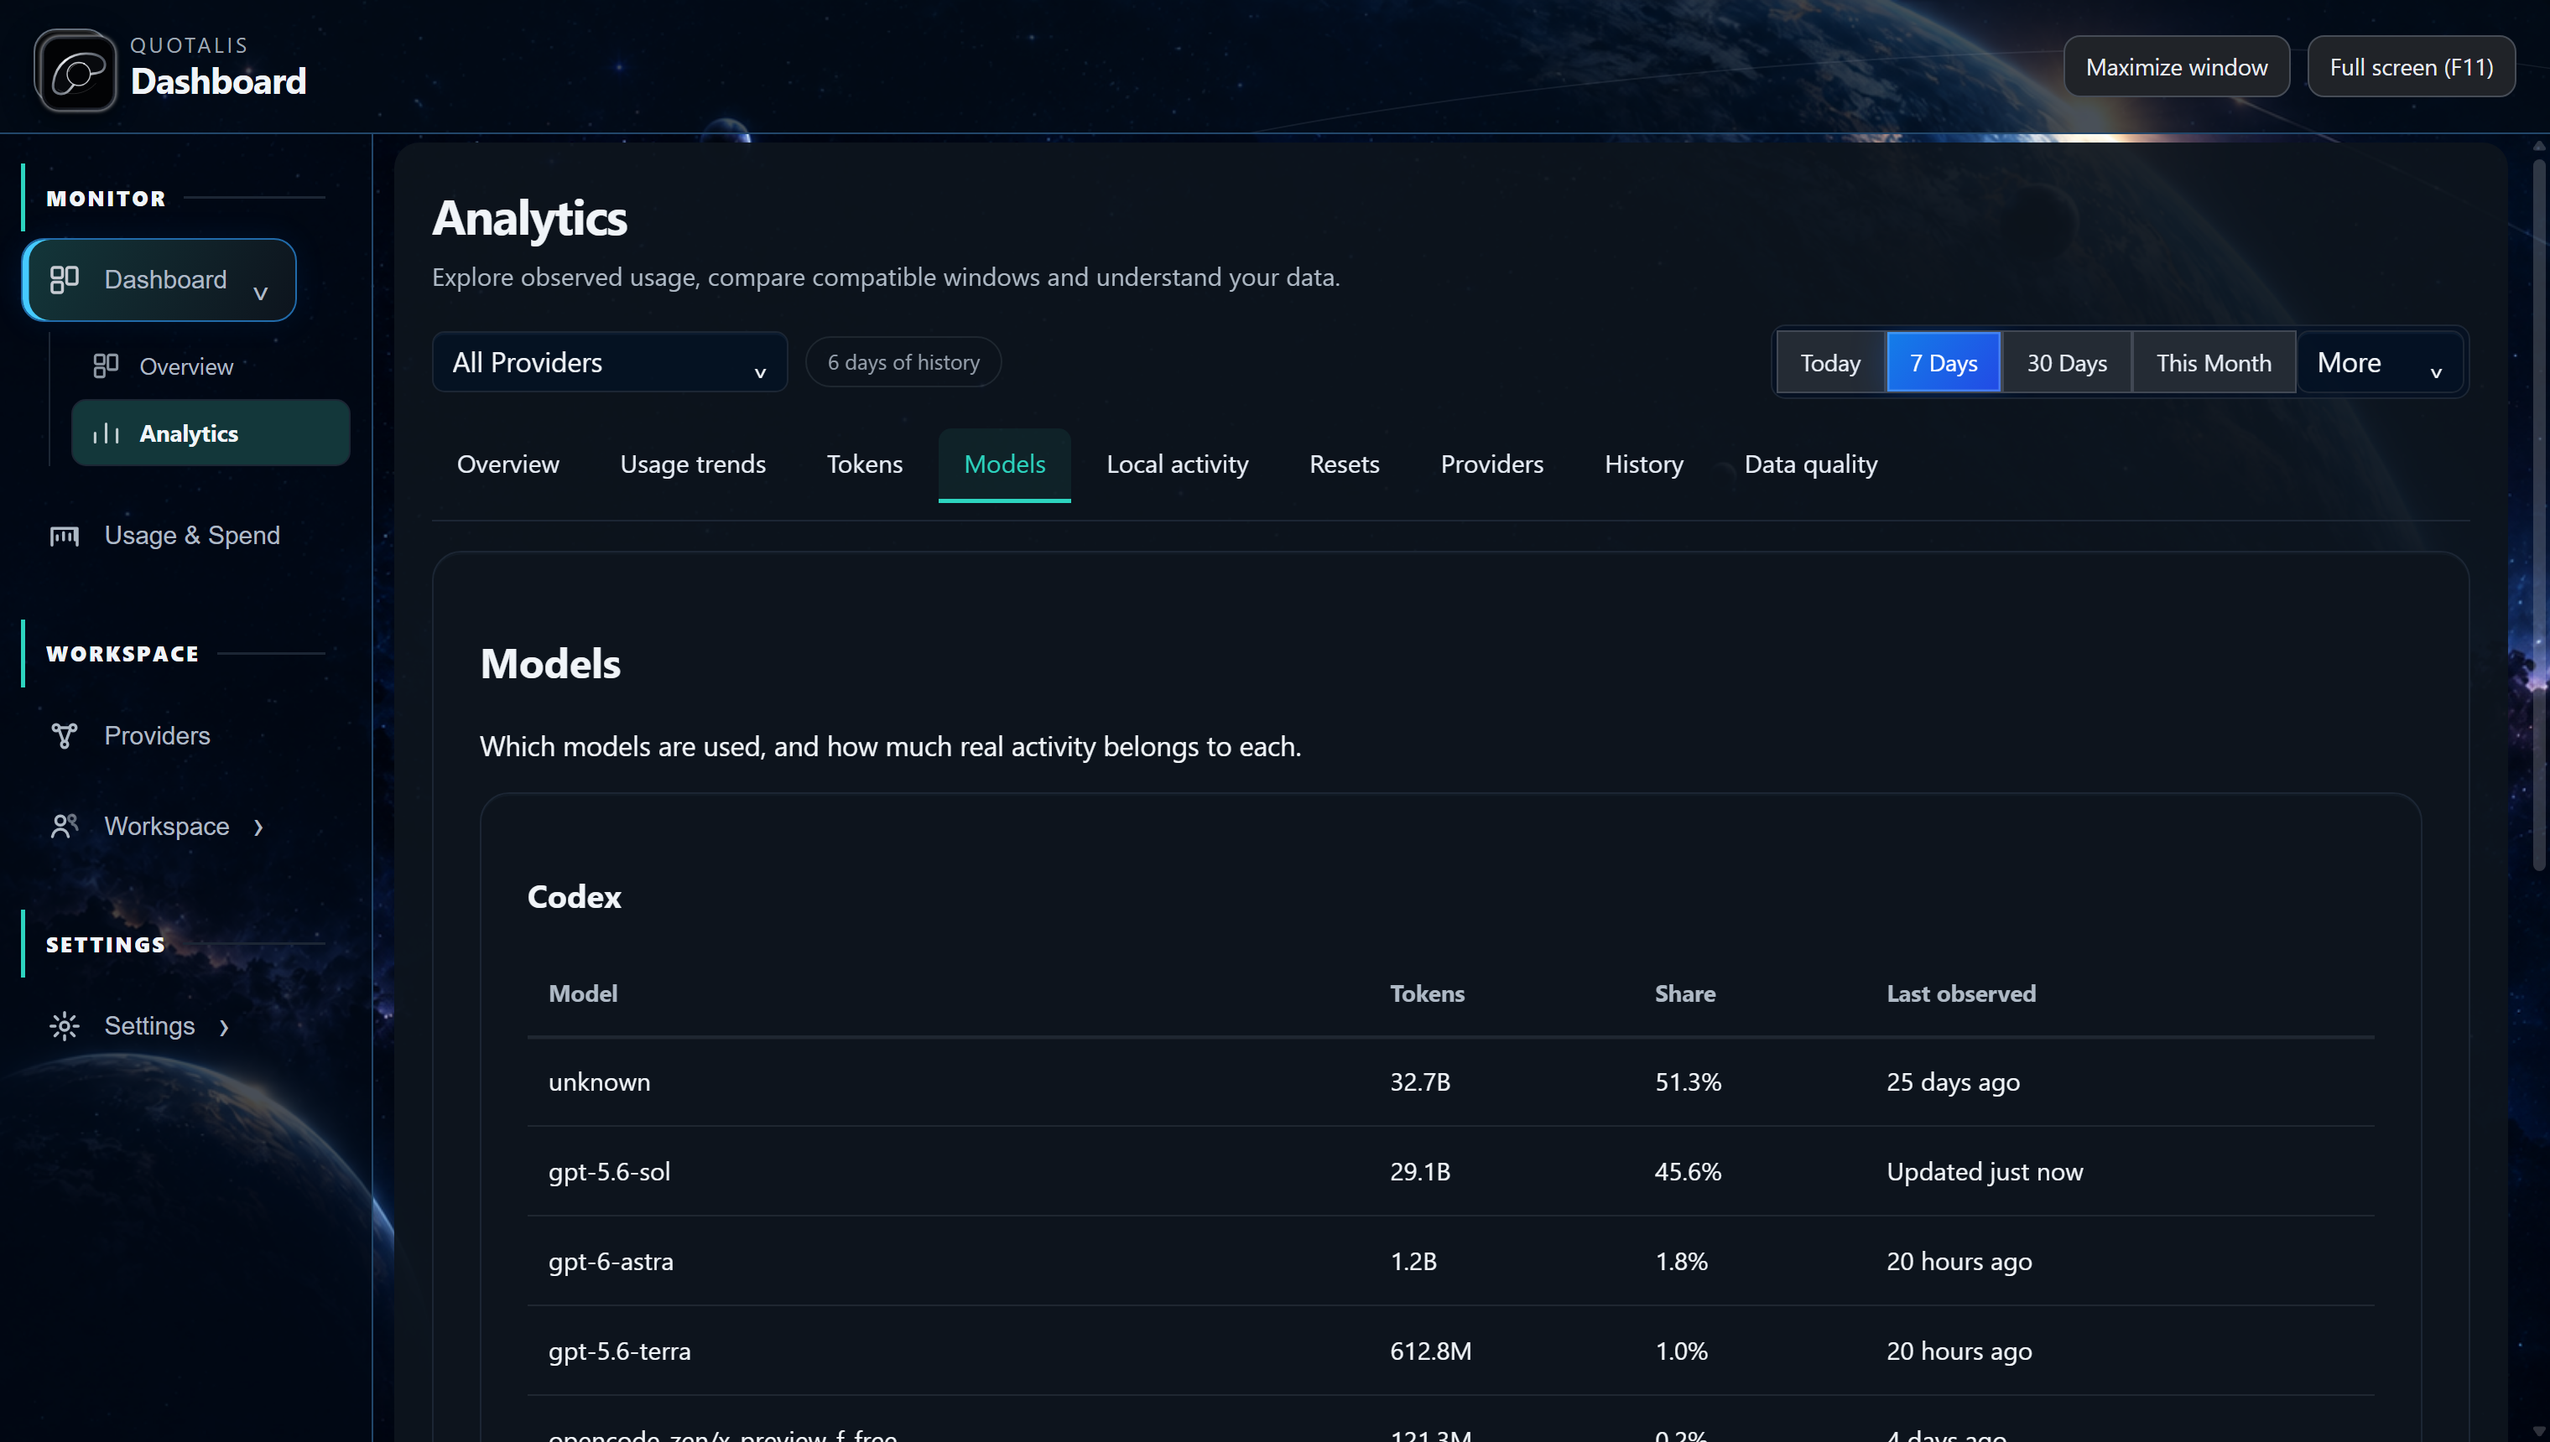
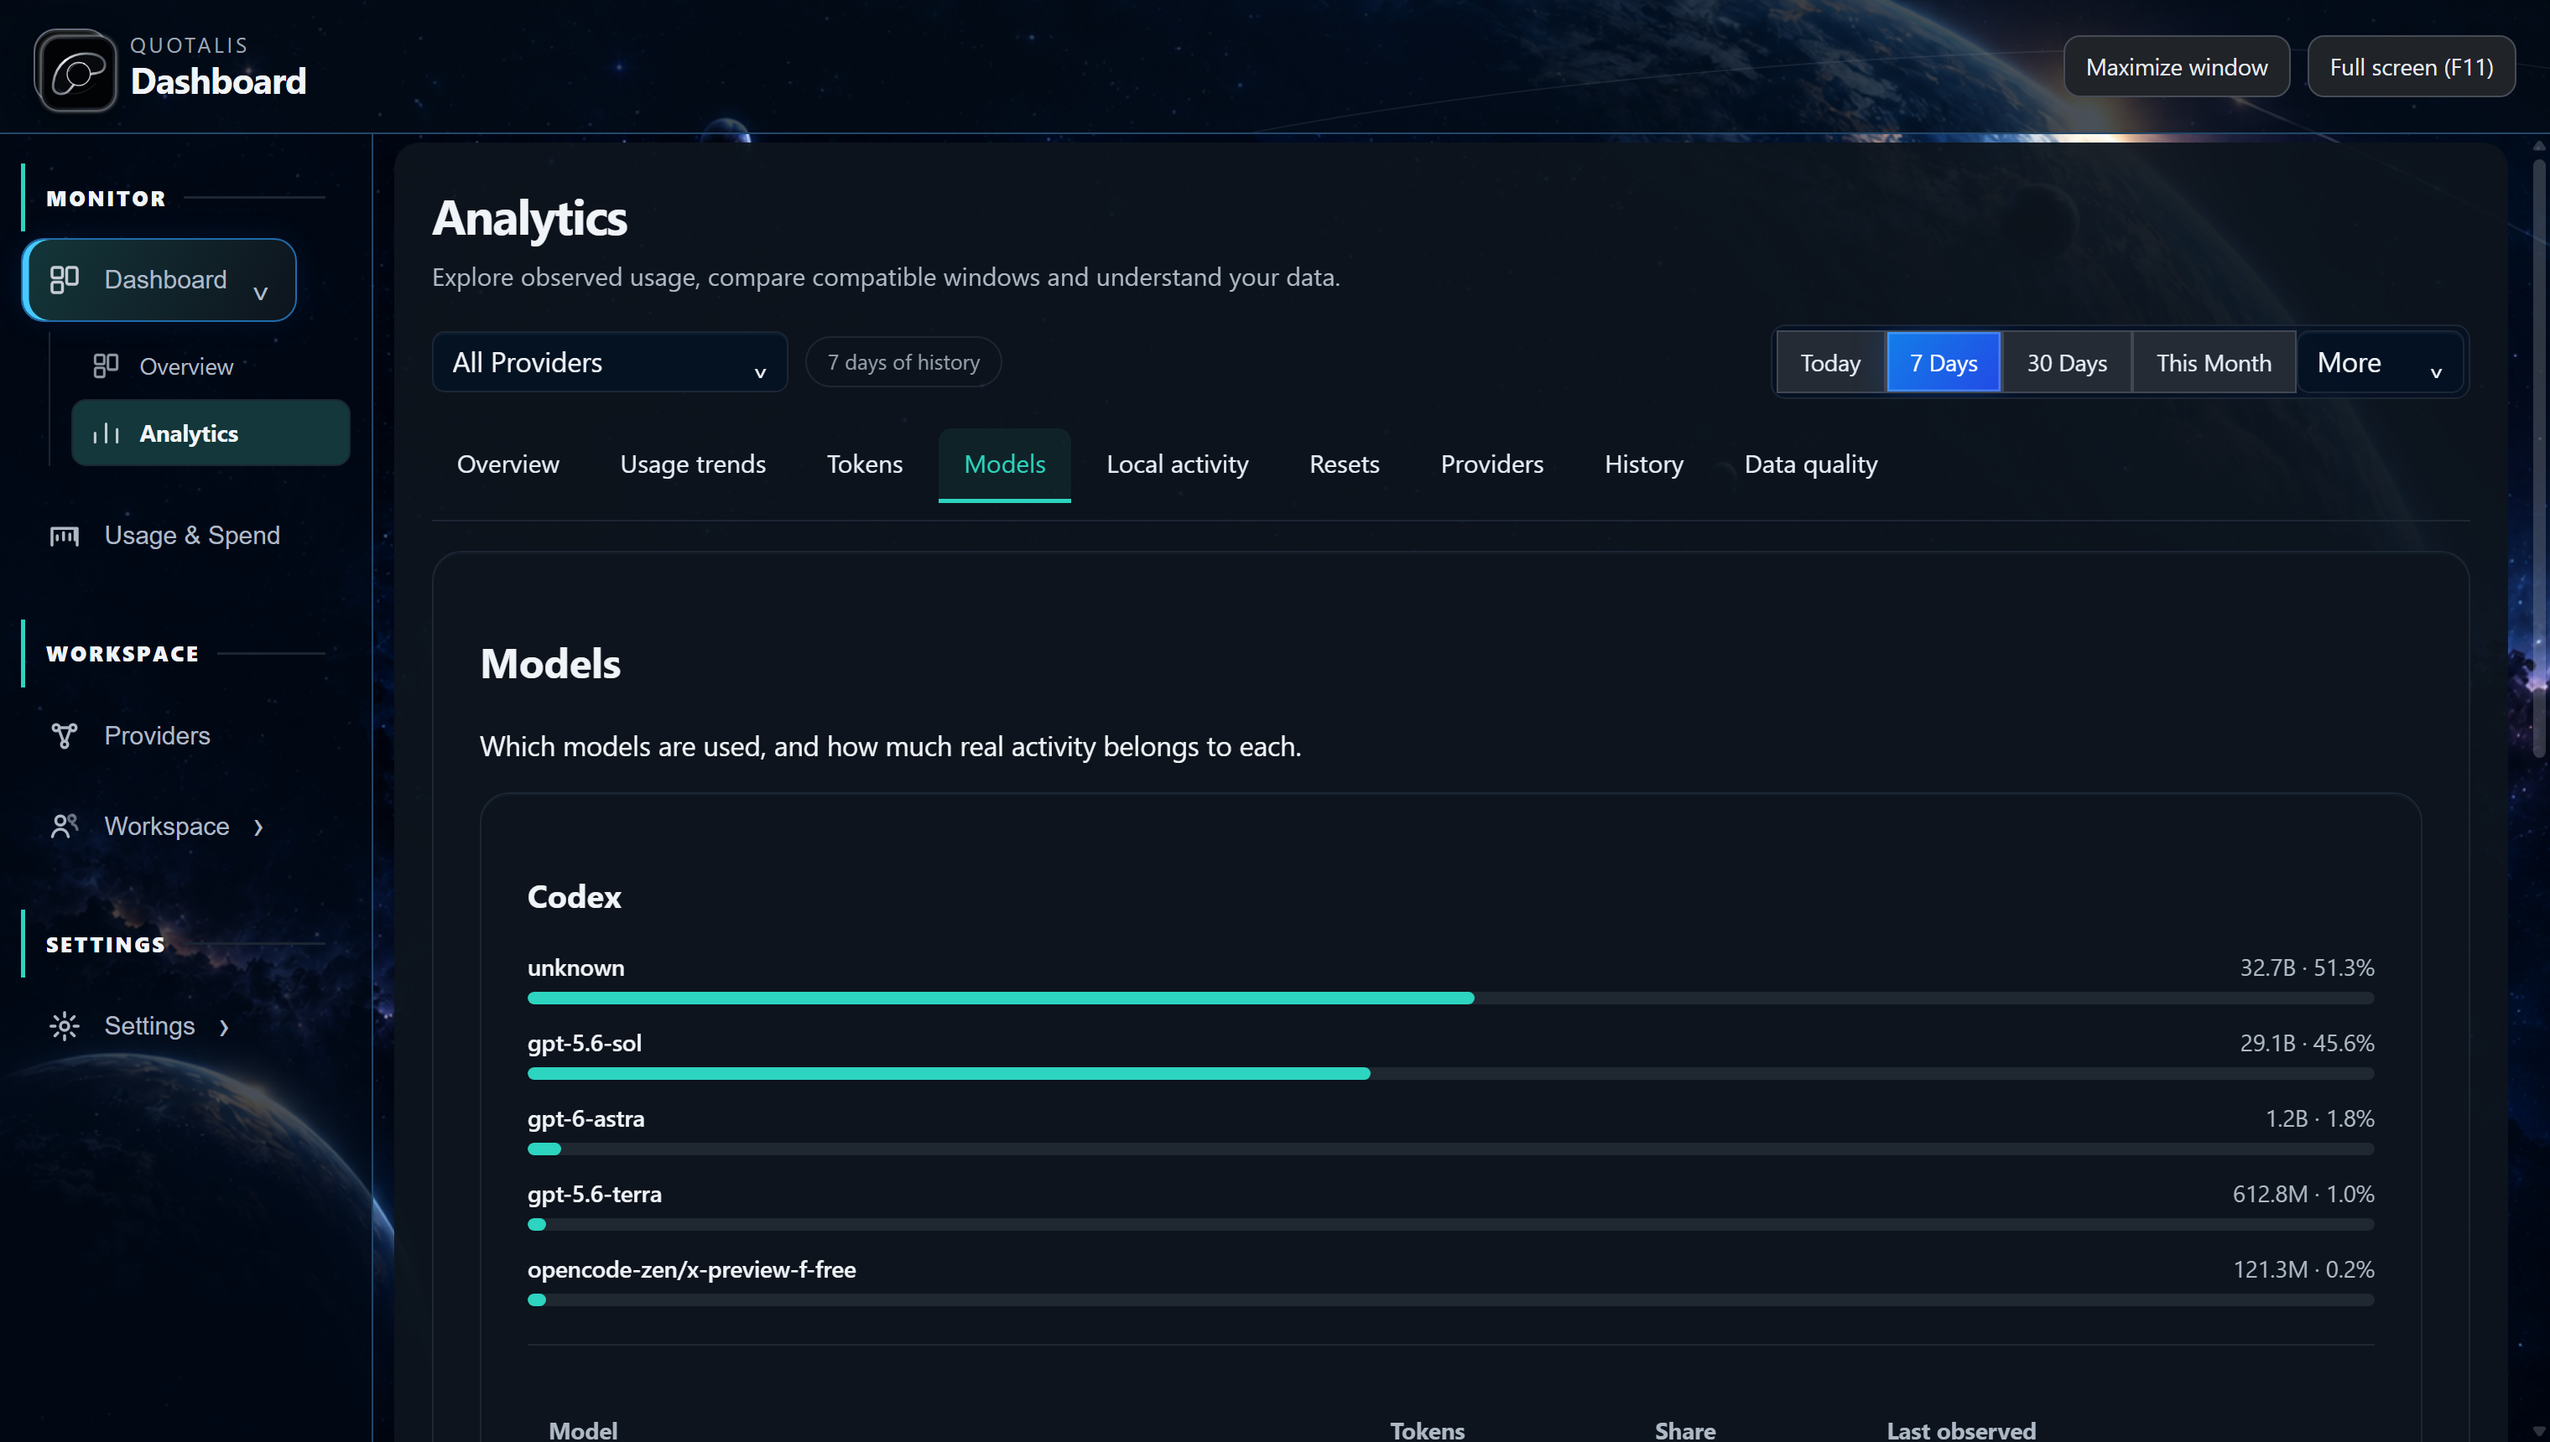
feat: evolve Model Analytics presentation
Codex's model breakdown was a raw table only (owner: "do not leave it
as a raw table only"). Added a ranked instrument-row visual above the
existing table: one horizontal bar per top-5 model, width proportional
to share of the same `codexTotal` denominator the table already uses
(no pie chart -- a pie invites reading the angle instead of the actual
number, which is always shown alongside the bar here as
"<tokens> · <share>%"). The "unknown" model bucket stays visible and,
being the largest real bucket on this machine, sorts to the top
honestly rather than being hidden or demoted.

The detailed table below is functionally unchanged -- same columns,
same full row set including "unknown" -- so this is additive, not a
replacement of the honest record.

Claude's single-top-model ribbon gets the same `analytics-comparison-stat`
+ `--text` cell-grammar fix as Overview/Tokens (same root cause: a
plain unstyled `<div>`), giving its intentional limited state
(PanelTopModelPrefix + one concise capability note, no fabricated
ranked list) the same visual weight as every other Analytics surface.

Verified: pnpm vitest run (181 files / 1086 tests -- ModelAnalytics.test.tsx
updated since "gpt-5"/"gpt-5-mini" now legitimately appear twice, once
in the new ranked list and once in the unchanged table), tsc --noEmit
clean, production build succeeds, locale-drift clean (1405 keys, no
new keys needed), cargo test --workspace (Desktop 474/1 ignored, Core
[…]

diff --git a/apps/desktop-tauri/src/surfaces/dashboard/analytics/ModelAnalytics.tsx b/apps/desktop-tauri/src/surfaces/dashboard/analytics/ModelAnalytics.tsx
@@ -3,8 +3,11 @@ import { getCodexWorkspacesSnapshot, getProviderChartData } from '../../../lib/t
 import type { CodexWorkspacesModelUsage, SettingsSnapshot } from '../../../types/bridge';
 import { useLocale } from '../../../hooks/useLocale';
 import { useAnalyticsSources } from '../../../hooks/useAnalyticsSources';
+import { useDashboardStructureTheme } from './useDashboardStructureTheme';
 import { formatRelativeUpdated } from '../../../lib/relativeTime';
 import { formatCompactTokens, formatExactTokens } from '../../../lib/analytics/formatTokens';
+
+const TOP_MODELS_SHOWN = 5;
 
 /** Analytics -> Models. Capability-gated on `models`. Codex has a real,
  *  ranked per-model token breakdown (`ModelUsage[]`, rust/src/
@@ -13,9 +16,10 @@ import { formatCompactTokens, formatExactTokens } from '../../../lib/analytics/f
  *  token split. Never merge the two into one fabricated ranked list --
  *  each provider's section shows exactly what its source can honestly
  *  back (docs/validation/LOCAL_ACTIVITY_FIELD_MATRIX.md). */
-export default function ModelAnalytics({ providerId, isDemo }: { settings: SettingsSnapshot; providerId: string | null; isDemo: boolean }) {
+export default function ModelAnalytics({ settings, providerId, isDemo }: { settings: SettingsSnapshot; providerId: string | null; isDemo: boolean }) {
   const { t } = useLocale();
   const { sources } = useAnalyticsSources();
+  const { theme } = useDashboardStructureTheme(settings);
   const [codexModels, setCodexModels] = useState<CodexWorkspacesModelUsage[] | null>(null);
   const [claudeTopModel, setClaudeTopModel] = useState<string | null | undefined>(undefined);
   const [error, setError] = useState(false);
@@ -63,6 +67,21 @@ export default function ModelAnalytics({ providerId, isDemo }: { settings: Setti
           <section className="analytics-section model-analytics-provider">
             <header><h3><bdi>Codex</bdi></h3></header>
             {codexModels.length === 0 ? <p role="status">{t('DashboardValueUnavailable')}</p> : (
+              <>
+              <ol className="model-analytics-ranked" aria-label={t('ModelColumnShare')}>
+                {codexModels.slice(0, TOP_MODELS_SHOWN).map((m) => {
+                  const share = codexTotal > 0 ? (m.totalTokens / codexTotal) * 100 : 0;
+                  return (
+                    <li key={m.model}>
+                      <div className="model-analytics-ranked__row">
+                        <bdi className="model-analytics-ranked__name">{m.model}</bdi>
+                        <span className="model-analytics-ranked__value" title={formatExactTokens(m.totalTokens)}>{formatCompactTokens(m.totalTokens)} · {share.toFixed(1)}%</span>
+                      </div>
+                      <div className="model-analytics-ranked__track"><div className="model-analytics-ranked__bar" style={{ width: `${Math.max(share, share > 0 ? 1 : 0)}%`, background: theme.accent }} /></div>
+                    </li>
+                  );
+                })}
+              </ol>
               <table className="analytics-table">
                 <thead>
                   <tr>
@@ -83,6 +102,7 @@ export default function ModelAnalytics({ providerId, isDemo }: { settings: Setti
                   ))}
                 </tbody>
               </table>
+              </>
             )}
           </section>
         )
@@ -92,7 +112,7 @@ export default function ModelAnalytics({ providerId, isDemo }: { settings: Setti
           <header><h3><bdi>Claude</bdi></h3></header>
           {claudeTopModel === undefined ? <p role="status">…</p> : claudeTopModel === null ? <p role="status">{t('DashboardValueUnavailable')}</p> : (
             <dl className="analytics-metric-ribbon">
-              <div><dt>{t('PanelTopModelPrefix')}</dt><dd><bdi>{claudeTopModel}</bdi></dd></div>
+              <div className="analytics-comparison-stat"><dt>{t('PanelTopModelPrefix')}</dt><dd className="analytics-comparison-stat--text"><bdi>{claudeTopModel}</bdi></dd></div>
             </dl>
           )}
           <small className="analytics-note">{t('ModelNoBreakdownNote')}</small>

diff --git a/apps/desktop-tauri/src/surfaces/dashboard/analytics/AnalyticsWorkstation.css b/apps/desktop-tauri/src/surfaces/dashboard/analytics/AnalyticsWorkstation.css
@@ -116,6 +116,20 @@
 .dashboard-analytics .token-analytics-provider .analytics-metric-ribbon{grid-template-columns:repeat(auto-fit,minmax(140px,1fr))}
 @media(max-width:720px){.dashboard-analytics .token-analytics-provider .analytics-metric-ribbon{grid-template-columns:repeat(2,minmax(0,1fr))}}
 
+/* Analytics -> Models: ranked instrument rows above the detailed table
+ * (owner: "do not leave it as a raw table only"). A precise horizontal
+ * bar per top model -- share-proportional width, real values, no pie
+ * chart (explicitly avoided per the design brief: a pie invites reading
+ * angle instead of the actual number, which is always shown alongside
+ * the bar here). The detailed table below is unchanged and still the
+ * complete, honest record (including the "unknown" bucket). */
+.dashboard-analytics .model-analytics-ranked{list-style:none;margin:0 0 20px;padding:0 0 18px;border-bottom:1px solid var(--qa-analytics-hairline);display:flex;flex-direction:column;gap:10px}
+.dashboard-analytics .model-analytics-ranked__row{display:flex;align-items:baseline;justify-content:space-between;gap:12px;font-size:11px}
+.dashboard-analytics .model-analytics-ranked__name{font-weight:550;min-width:0;overflow:hidden;text-overflow:ellipsis;white-space:nowrap}
+.dashboard-analytics .model-analytics-ranked__value{color:var(--qa-analytics-text-secondary);font-variant-numeric:tabular-nums;flex:none}
+.dashboard-analytics .model-analytics-ranked__track{height:6px;border-radius:3px;background:var(--qa-analytics-hairline);overflow:hidden;margin-top:4px}
+.dashboard-analytics .model-analytics-ranked__bar{height:100%;border-radius:3px;transition:none}
+
 .dashboard-analytics .reset-horizon__ticks{height:38px}.analytics-layout-editor>li[draggable=true]{cursor:grab}
 .dashboard-analytics .dashboard-limits__grid[data-provider-count="1"]{grid-template-columns:minmax(0,1fr)}
 .dashboard-analytics .dashboard-limits__grid[data-provider-count="2"]{grid-template-columns:repeat(2,minmax(0,1fr))}

diff --git a/apps/desktop-tauri/src/surfaces/dashboard/analytics/ModelAnalytics.test.tsx b/apps/desktop-tauri/src/surfaces/dashboard/analytics/ModelAnalytics.test.tsx
@@ -59,8 +59,10 @@ describe("ModelAnalytics", () => {
       ],
     });
     render(<ModelAnalytics settings={settings} providerId="codex" isDemo={false} />);
-    await waitFor(() => expect(screen.getByText("gpt-5")).toBeInTheDocument());
-    expect(screen.getByText("gpt-5-mini")).toBeInTheDocument();
+    // "gpt-5" appears twice by design: once in the new ranked bar list,
+    // once in the still-present detailed table below it.
+    await waitFor(() => expect(screen.getAllByText("gpt-5").length).toBeGreaterThan(0));
+    expect(screen.getAllByText("gpt-5-mini").length).toBeGreaterThan(0);
     expect(screen.getByText("3.6k")).toBeInTheDocument();
     // 3600 / 3750 = 96.0%
     expect(screen.getByText("96.0%")).toBeInTheDocument();
